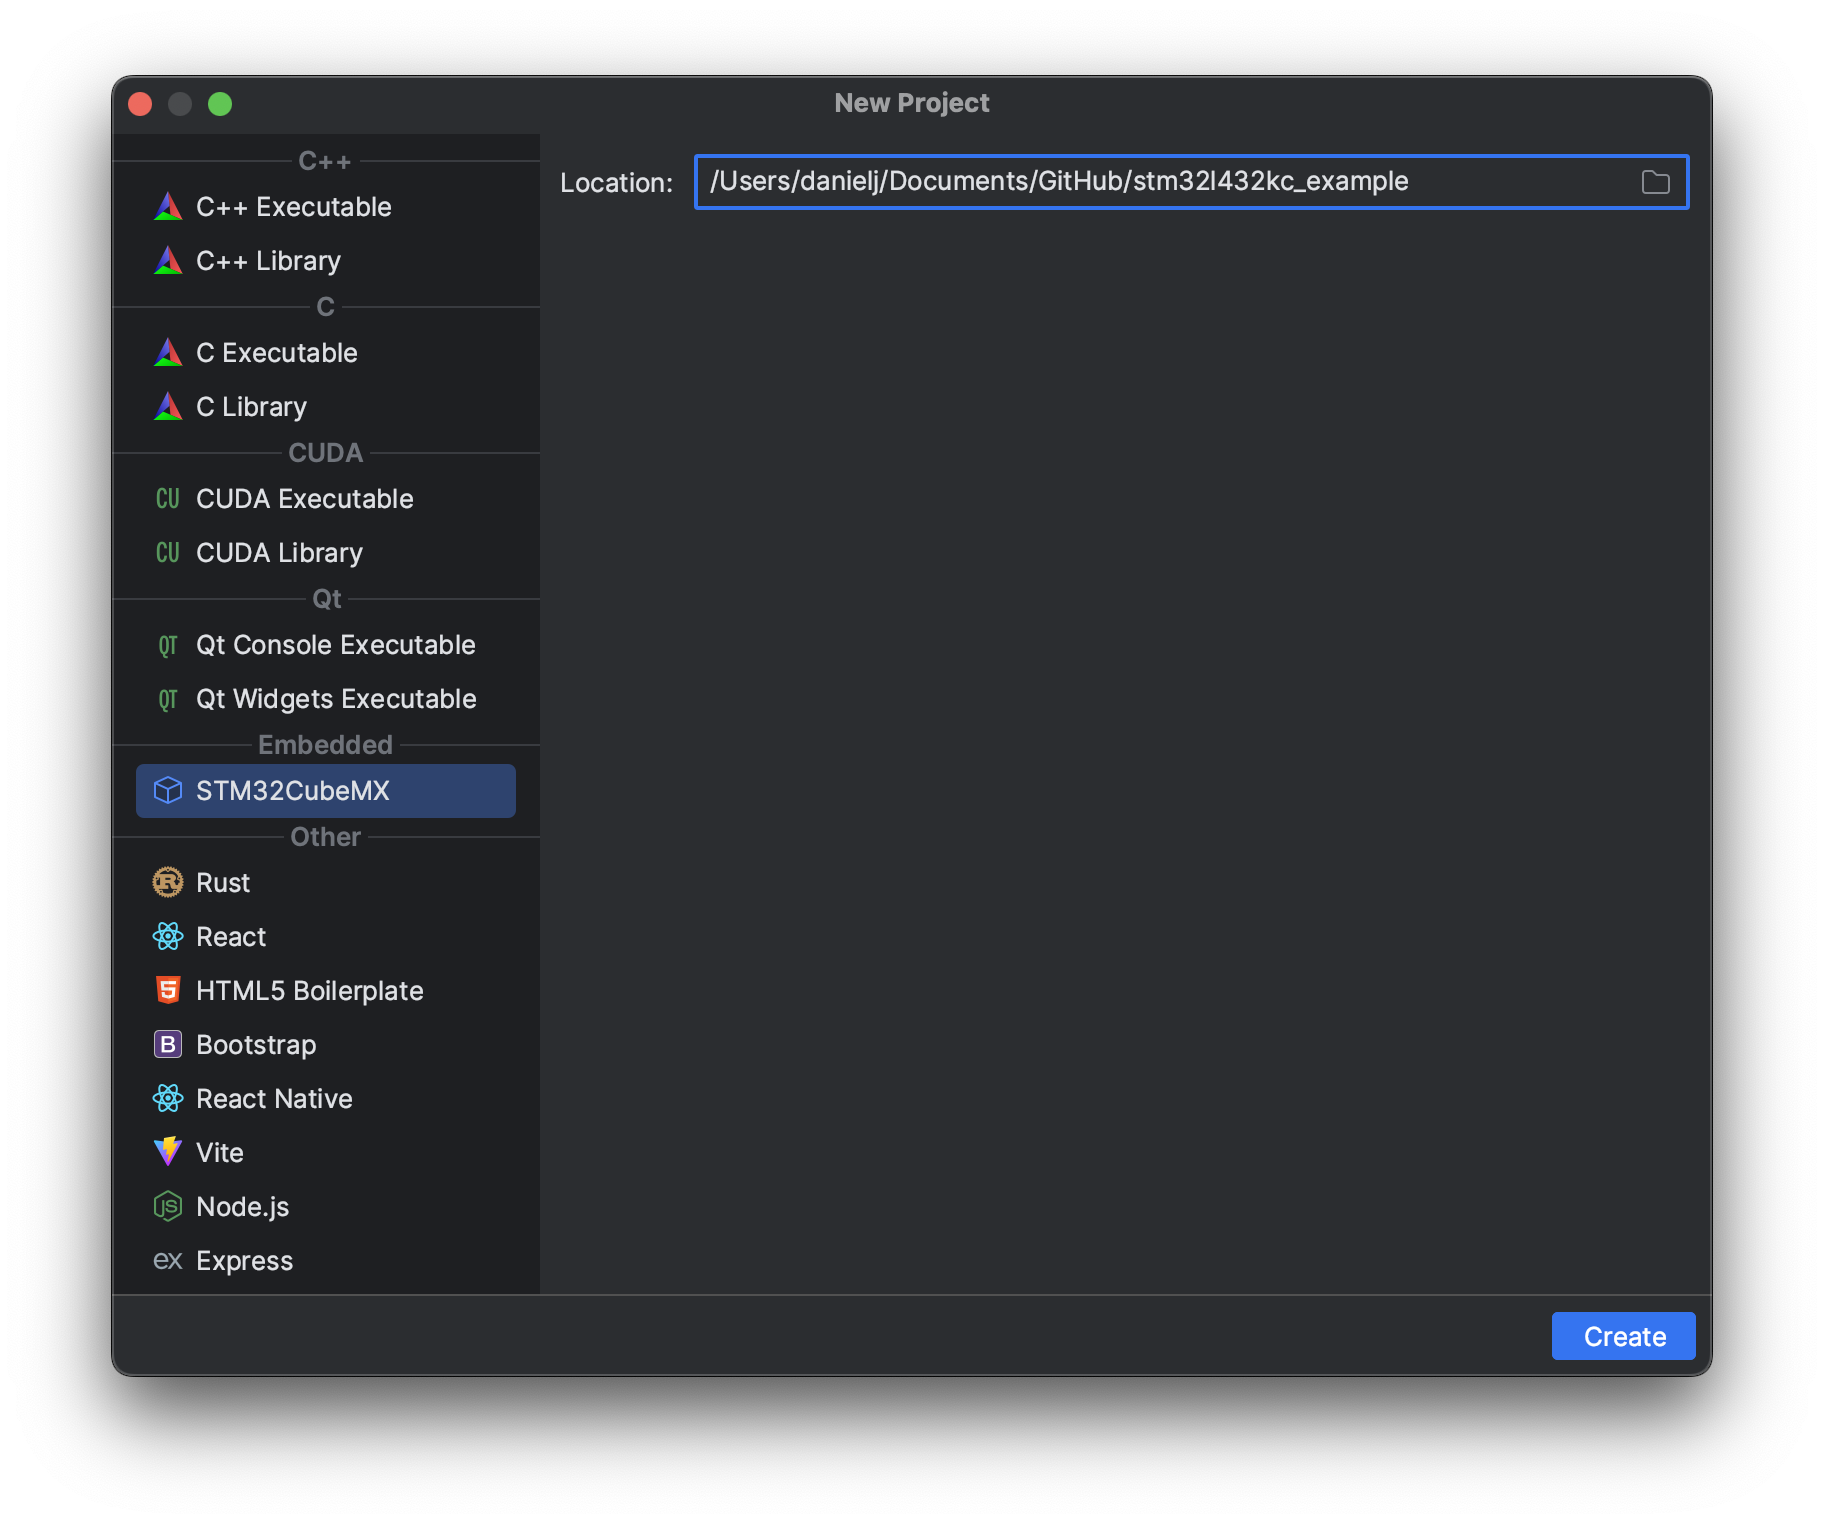
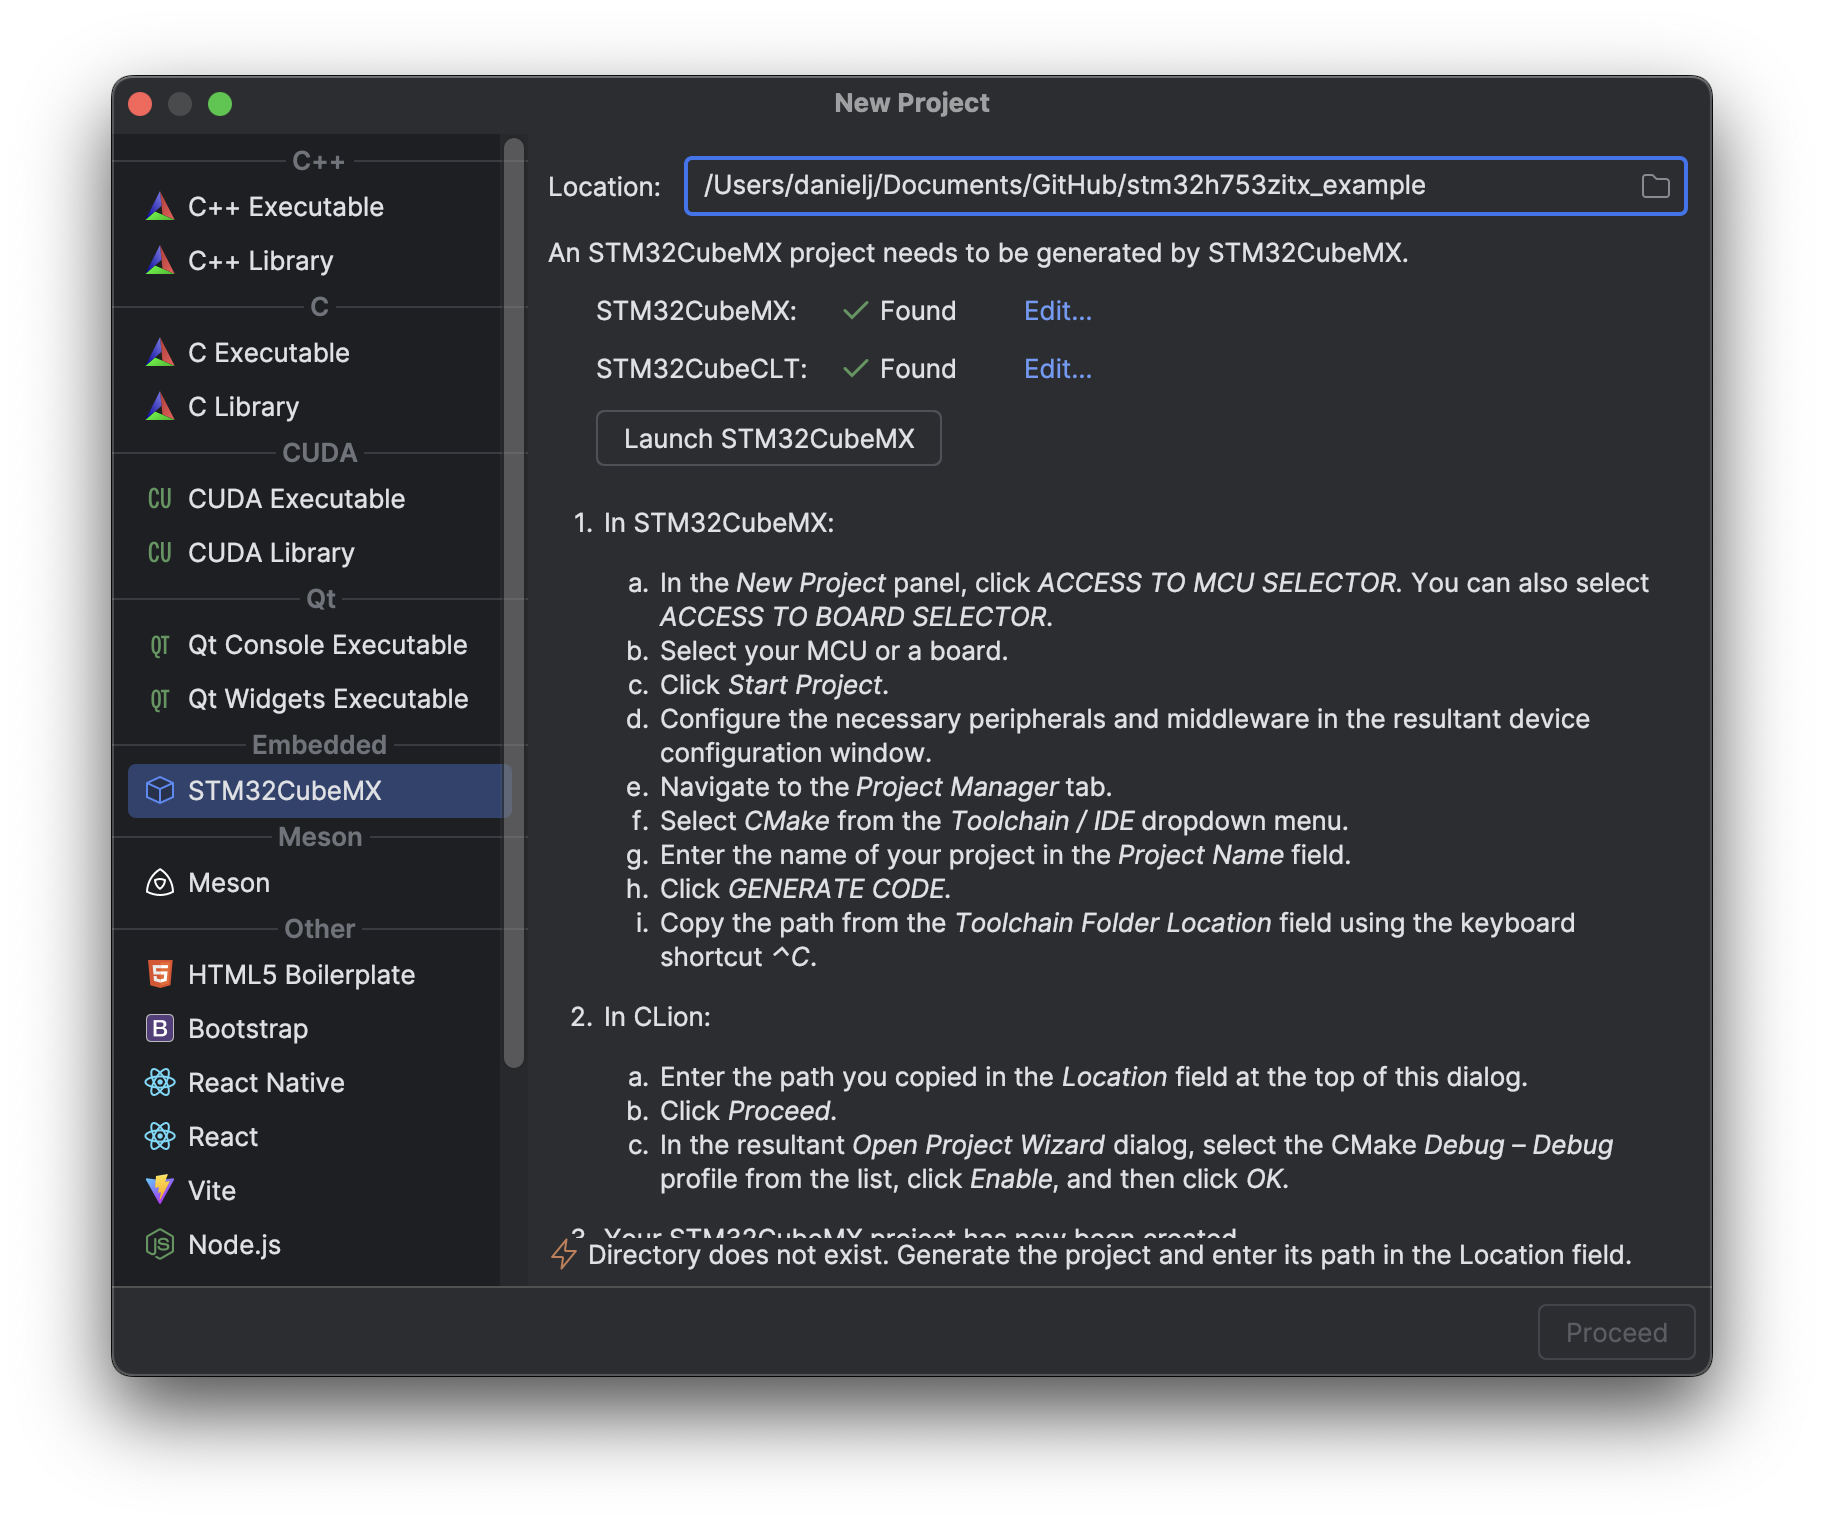
Update STM32 CLion/STM32CubeMX devenv docs

diff --git a/devenvs/stm32_clion_setup.md b/devenvs/stm32_clion_setup.md
@@ -24,11 +24,8 @@ STM32 development utilizing STM32CubeMX, GNU ARM Toolchain and OpenOCD.
     * [2.3 Setup Arm GNU Toolchain GCC and G++](#23-setup-arm-gnu-toolchain-gcc-and-g)
   * [3 STM32CubeMX Project Setup](#3-stm32cubemx-project-setup)
     * [3.1 Create new CLion STM32CubeMX project](#31-create-new-clion-stm32cubemx-project)
-      * [3.1.1 Configure Version Control](#311-configure-version-control)
-      * [3.1.2 Remove Default Generated File Structure](#312-remove-default-generated-file-structure)
-    * [3.2 Configure STM32 with STM32CubeMX](#32-configure-stm32-with-stm32cubemx)
-      * [3.2.1 Configure STM32CubeMX Project Manager](#321-configure-stm32cubemx-project-manager)
-      * [3.2.2 Generate Code](#322-generate-code)
+      * [3.1.1 Configure STM32CubeMX Project Manager](#311-configure-stm32cubemx-project-manager)
+    * [3.2 Configure Version Control](#32-configure-version-control)
     * [3.3 CMake Configuration](#33-cmake-configuration)
   * [4 OpenOCD Configuration](#4-openocd-configuration)
     * [4.1 Pick Target Board Configuration File](#41-pick-target-board-configuration-file)
@@ -222,42 +219,13 @@ generation and more.
 ### 3.1 Create new CLion STM32CubeMX project
 
 ```File → New → Project → STM32CubeMX```
-![CLion new STM32CubeMX project.png](pictures/stm32ide/CLion%20new%20STM32CubeMX%20project.png?raw=true "CLion new STM32CubeMX project.png")
+![CLion new STM32CubeMX project.png](pictures/stm32ide/CLion%20new%20STM32CubeMX%20project.png)
 
+- Follow the instructions listed.
 - Use the appropriate path if you are opening or creating a version controlled
   project.
 
-#### 3.1.1 Configure Version Control
-
-Wait for STM32CubeMX to finish generating a default project.
-
-If you are using version control, verify that any required files such as `.git`
-are still in the project directory, sometimes STM32CubeMX may delete/overwrite
-these files.
-
-#### 3.1.2 Remove Default Generated File Structure
-
-Delete all files in your project except those that you specifically know are
-needed.
-
-If you are new to the STM32 workflow follow the recommendations below:
-
-1. Keep `CMakeLists.txt`, `CMakeLists_template.txt`,
-   `**PROJECT_NAME_HERE**.ioc`.
-2. Keep files required for version control such as `.git`.
-3. Keep `.idea` (JetBrain's project structure file).
-
-### 3.2 Configure STM32 with STM32CubeMX
-
-If STM32CubeMX fails to open automatically you can find the newly
-created `**PROJECT_NAME_HERE**.ioc` on the left-hand `Project` file structure
-viewer.
-
-- You can edit the `.ioc` at any later time, but you should at least select
-  your target ST chip or board.
-- By default, the target chip will be selected to `STM32F030F4Px`.
-
-#### 3.2.1 Configure STM32CubeMX Project Manager
+#### 3.1.1 Configure STM32CubeMX Project Manager
 
 Configure the `Project Manager`.
 
@@ -267,6 +235,7 @@ Configure the `Project Manager`.
 2. `Project Location` = will be the root directory of your project.
 3. `Toolchain / IDE` = `STM32CubeIDE`.
 4. `Generate Under Root` = `True`.
+5. Generate code with the... `GENERATE CODE` button.
 
 ![STM32CubeMX code generation settings.png](pictures/stm32ide/STM32CubeMX%20code%20generation%20settings.png)
 
@@ -275,12 +244,13 @@ Configure the `Project Manager`.
     - My `Toolchain Folder Location` is the path of my repository since
       the `Project Name` matches the repo name.
 
-#### 3.2.2 Generate Code
+### 3.2 Configure Version Control
 
-Generate code with the... `GENERATE CODE` button.
+Wait for STM32CubeMX to finish generating a default project.
 
-- You may get a warning about overwriting the previous `.ioc`, allow and
-  continue.
+If you are using version control, verify that any required files such as `.git`
+are still in the project directory, sometimes STM32CubeMX may delete/overwrite
+these files.
 
 ### 3.3 CMake Configuration
 
